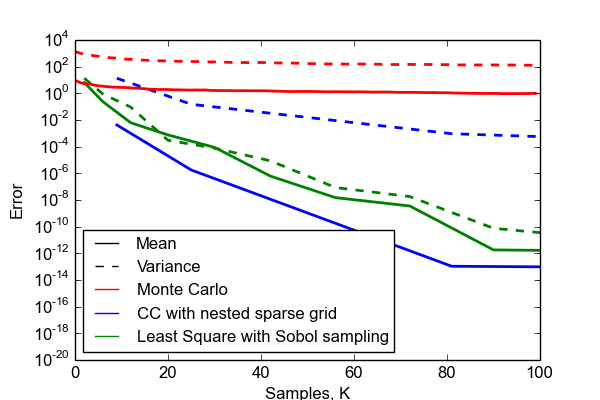
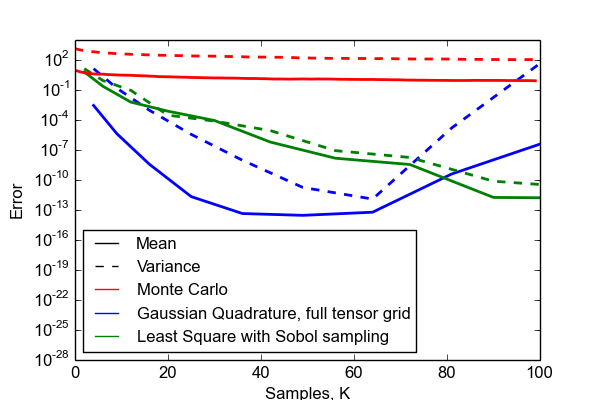
changed 2D_diff

diff --git a/figures/MC_convergence_2D_diff.py b/figures/MC_convergence_2D_diff.py
@@ -13,9 +13,9 @@ pl.plot(-1,1, "k--")
 pl.plot(-1,1, "r")
 pl.plot(-1,1, "b")
 pl.plot(-1,1, "g")
-pl.legend(["Mean","Variance", "Monte Carlo","CC with nested sparse grid", "Least Square with Sobol sampling"],loc=3,prop={"size" :12})
+pl.legend(["Mean","Variance", "Monte Carlo","Gaussian Quadrature, full tensor grid", "Least Square with Sobol sampling"],loc=3,prop={"size" :12})
 #pl.xlim([0,20])
-pl.ylim([10**-20,10**4])
+pl.ylim([10**-28,10**4])
 
 
 def E_analytical(x):
@@ -77,10 +77,10 @@ varCP = []
 
 K = []
 
-N = 3
+N = 8
 for n in xrange(0,N+1):
     P = cp.orth_ttr(n, dist)
-    nodes, weights = cp.generate_quadrature(n+1, dist, rule="C",nested=True,growth=True)
+    nodes, weights = cp.generate_quadrature(n+1, dist, rule="G")
     K.append(len(nodes[0]))
     i1,i2 = np.mgrid[:len(weights), :Nt]
     solves = u(T[i2],nodes[0][i1],nodes[1][i1])
